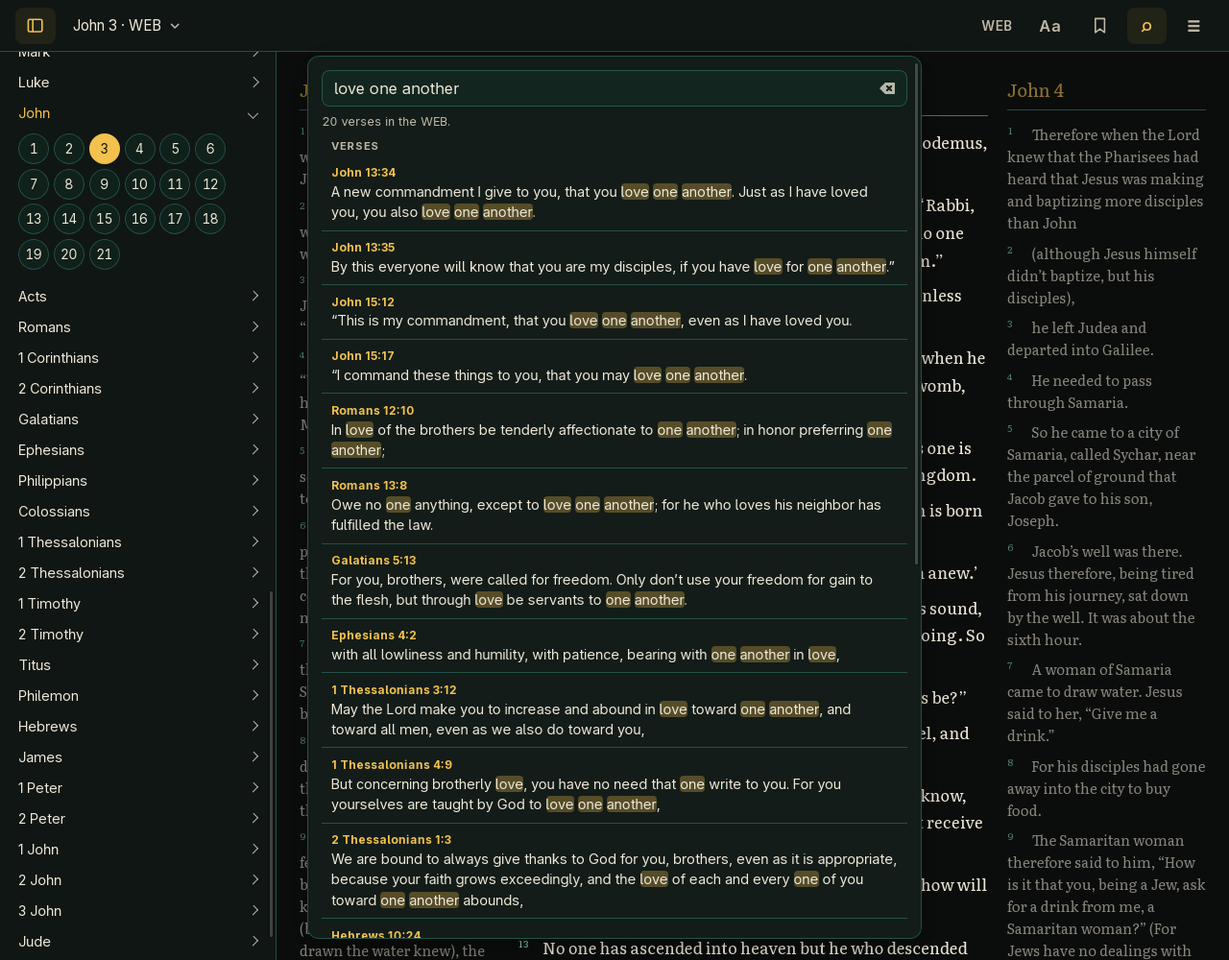
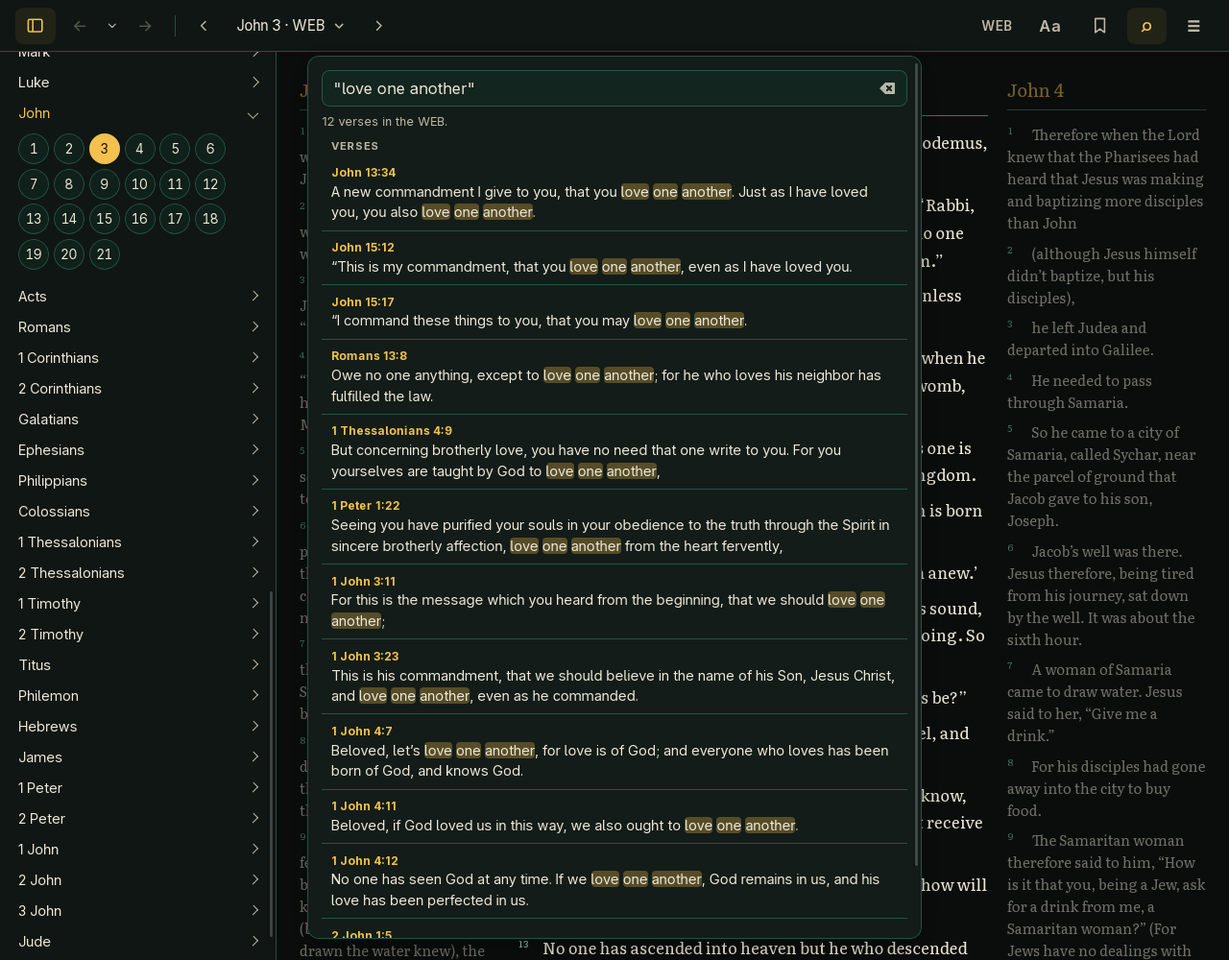
chore(release): v2.22.0
Cargo.toml, Cargo.lock (the gospel_getter entry only, via cargo update
-p gospel_getter --offline) and tauri.conf.json: 2.21.0 -> 2.22.0.
PKGBUILD: _pkgver=2.22.0 and pkgver=2.22.0 (pkgrel stays 1; sha256sums
stays SKIP).

The website shows Version 2.22.0 (hero note and download line). Its FAQ
now says 2.6 through 2.21 update themselves to this one.

README: 2.6.0 through 2.21.0 update themselves to 2.22.0, and the 2.19.0
pre-release does too; 2.5.0 and older install 2.22.0 by hand once.

CHANGELOG: a new 2.22.0 entry for the study-flow batch (#163), with a
one-line intro. Added: Back and Forward in the bar with Recent places
(the last 10, on this computer, in no backup or export), the chapter
arrows, exact-phrase search, and Export notes' Commentary layout with
Print. Changed: the panels grow with Text size, and the neighboring
chapters are fainter and lighten more gently on hover.

Feature copy (#163): the README's Read in context, Search, Notes
(Export notes' Commentary and Print), Comfortable reading (Text size
also enlarges the panels), the bar, and Back and forward (the buttons and
Recent places) bullets, the tour's search paragraph, and Your data
(Recent places on this computer only, not in backups). The site's Read in
context, Find a passage, Write notes and Make it yours items get a short
clause each. The keyboard tables don't mention the bar, so they're
unchanged.

Screenshots: the README's search-results scene now types the phrase
[…]

diff --git a/site/index.html b/site/index.html
@@ -60,7 +60,7 @@
                         <a class="button button-primary" href="#download-windows">Download for Windows</a>
                         <a class="button button-secondary" href="#download-linux">Download for Linux</a>
                     </div>
-                    <p class="hero-note">Version 2.21.0, for 64-bit Windows and Linux computers. The Windows installer isn’t code-signed yet, so Windows will probably warn you before it runs. <a href="#faq-smartscreen">What to expect</a>.</p>
+                    <p class="hero-note">Version 2.22.0, for 64-bit Windows and Linux computers. The Windows installer isn’t code-signed yet, so Windows will probably warn you before it runs. <a href="#faq-smartscreen">What to expect</a>.</p>
                     <p class="touch-only touch-note">Gospel Getter is a desktop app for <strong>Windows and Linux computers</strong>. There’s no phone, tablet or Mac version. To install it, open this page on your computer.</p>
 
                     <ul class="facts">
@@ -90,8 +90,8 @@
                 <div class="feature text-only" id="context">
                     <div class="feature-text">
                         <h3>Read in context</h3>
-                        <p>The chapter you’re reading sits in the middle, with the chapters before and after it faded on either side, as in the picture above. Press <kbd>←</kbd> and <kbd>→</kbd> to turn chapters across the whole Bible, or use the buttons at the end of each chapter. The window’s title says where you are, and the window opens at the size and place you left it.</p>
-                        <p>The reference at the top left, such as “John 3 · KJV”, always says where you are. Click it or press <kbd>G</kbd> to choose a book and chapter, or a random chapter, which opens at its top. On a wide window the books and chapters stay open in a sidebar you can hide. <kbd>Alt</kbd>+<kbd>←</kbd> and <kbd>Alt</kbd>+<kbd>→</kbd> go back and forward through the passages you jumped to, and <kbd>?</kbd> lists every keyboard shortcut.</p>
+                        <p>The chapter you’re reading sits in the middle, with the chapters before and after it faded on either side, as in the picture above. Press <kbd>←</kbd> and <kbd>→</kbd> (or ‹ and › beside the reference) to turn chapters across the whole Bible, or use the buttons at the end of each chapter. The window’s title says where you are, and the window opens at the size and place you left it.</p>
+                        <p>The reference at the top left, such as “John 3 · KJV”, always says where you are. Click it or press <kbd>G</kbd> to choose a book and chapter, or a random chapter, which opens at its top. On a wide window the books and chapters stay open in a sidebar you can hide. Back and Forward at the top (or <kbd>Alt</kbd>+<kbd>←</kbd> and <kbd>Alt</kbd>+<kbd>→</kbd>) go back and forward through the passages you jumped to, ▾ between them lists your recent places, and <kbd>?</kbd> lists every keyboard shortcut.</p>
                         <p>Click a verse to see related passages in a card under it. Click one to read it right there in the card, a whole range at once, and <strong>Go to</strong> opens it. The card floats over the text, so nothing moves. Each chapter’s Cross references, at its end, link straight to their passages. The cross-references come from OpenBible.info.</p>
                         <p>In the KJV, words the translators supplied are in italics, as in printed KJVs, and its margin notes are lettered footnotes. The BSB’s translators’ footnotes are lettered where the BSB places them. Select a verse to read its notes, or open a chapter’s Footnotes at its end.</p>
                     </div>
@@ -101,7 +101,7 @@
                     <div class="feature-text">
                         <h3>Find a passage quickly</h3>
                         <p>Press <kbd>/</kbd> or <kbd>Ctrl</kbd>+<kbd>K</kbd> and type a reference such as <code>John 3:16</code>, <code>1 Cor 13</code> or <code>Psalm 23</code> to go straight there. Type a book’s name, like <code>Psalms</code> or <code>1 John</code>, to go straight to its first chapter, with the verses that mention it listed below.</p>
-                        <p>Type anything else to search the words of the text. You get every verse that contains all your words, in Bible order, with the words highlighted. Search works offline too.</p>
+                        <p>Type anything else to search the words of the text. You get every verse that contains all your words, in Bible order, with the words highlighted. Put words in quotes, like <code>"love one another"</code>, to find an exact phrase. Search works offline too.</p>
                         <p>The same box runs commands, such as a theme or Compare, each shown with its key if it has one. Start with <kbd>&gt;</kbd> to list commands only.</p>
                     </div>
                     <figure class="shot">
@@ -121,7 +121,7 @@
                             <li><strong>Bookmark passages.</strong> Bookmarked verses get a star, and the Library (the bookmark button at the top) opens any of them again.</li>
                             <li><strong>Highlight verses.</strong> Highlight the verses you’ve selected in yellow, green, blue or pink, like a highlighter pen. They show in whichever translation you’re reading.</li>
                             <li><strong>See all your highlights.</strong> The Highlights list in the Library shows every highlighted passage in Bible order, with its color and a preview. Filter by color, or click one to go back to it.</li>
-                            <li><strong>Write notes.</strong> Select verses and choose <strong>+ Add note</strong> to write about them. A small ✎ marks verses with notes, selecting them shows the notes, and the Notes list in the Library has them all, in Bible order, with a box to search them. Notes take a little Markdown (bold, italics, lists and links), and a reference you type, like “Rom 5:8”, becomes a link that goes there. If the app quits or you close a note with <strong>Keep for later</strong>, what you typed is kept as a draft, on this computer only (backups don’t include drafts). <strong>Copy as Markdown</strong> copies a note with its verses quoted. <strong>Export notes…</strong> in the Library saves them as a Markdown file to read or print, or with <strong>One file per book (a folder)</strong> a file for each book, as notes apps such as Obsidian keep them, with each note’s verses quoted in the translation you’re reading. Choose the books, a chapter range for one book, and when the notes were written, and see how many notes match as you go. In reading mode your notes sit in the margin beside their verses; <strong>Notes in the margin</strong> under <strong>Aa</strong> turns that off.</li>
+                            <li><strong>Write notes.</strong> Select verses and choose <strong>+ Add note</strong> to write about them. A small ✎ marks verses with notes, selecting them shows the notes, and the Notes list in the Library has them all, in Bible order, with a box to search them. Notes take a little Markdown (bold, italics, lists and links), and a reference you type, like “Rom 5:8”, becomes a link that goes there. If the app quits or you close a note with <strong>Keep for later</strong>, what you typed is kept as a draft, on this computer only (backups don’t include drafts). <strong>Copy as Markdown</strong> copies a note with its verses quoted. <strong>Export notes…</strong> in the Library saves them as a Markdown file to read or print, or with <strong>One file per book (a folder)</strong> a file for each book, as notes apps such as Obsidian keep them, with each note’s verses quoted in the translation you’re reading, or as a <strong>Commentary</strong> of your notes by verse number, which you can also print. Choose the books, a chapter range for one book, and when the notes were written, and see how many notes match as you go. In reading mode your notes sit in the margin beside their verses; <strong>Notes in the margin</strong> under <strong>Aa</strong> turns that off.</li>
                             <li><strong>Back up or move your bookmarks.</strong> Export your bookmarks, highlights, notes, reading position and display settings to a file, and import them on another computer. You see what a file contains before anything changes. Bible text isn’t included.</li>
                             <li><strong>Pick up where you left off.</strong> The app reopens at the verse you were reading. Your chapter, translation, bookmarks, highlights, notes and settings are remembered.</li>
                         </ul>
@@ -174,7 +174,7 @@
         <section class="section" id="themes" aria-labelledby="themes-title">
             <div class="wrap">
                 <h2 id="themes-title">Make it yours</h2>
-                <p class="section-intro">Under <strong>Aa</strong>, at the top of the app, choose from nine themes, four text sizes, three line spacings and three widths, set the verses one to a line or let each chapter flow as prose with small verse numbers, or switch on reading mode to hide everything but the text. Scripture is set in Literata, which comes with the app. The System theme follows your computer, Vellum when it’s light and Chi Rho when it’s dark. Printing is always black on white.</p>
+                <p class="section-intro">Under <strong>Aa</strong>, at the top of the app, choose from nine themes, four text sizes (the panels and menus grow with the text), three line spacings and three widths, set the verses one to a line or let each chapter flow as prose with small verse numbers, or switch on reading mode to hide everything but the text. Scripture is set in Literata, which comes with the app. The System theme follows your computer, Vellum when it’s light and Chi Rho when it’s dark. Printing is always black on white.</p>
                 <ul class="themes">
                     <li>
                         <figure>
@@ -239,7 +239,7 @@
         <section class="section section-alt download" id="download" aria-labelledby="download-title">
             <div class="wrap">
                 <h2 id="download-title">Download Gospel Getter</h2>
-                <p class="release-line"><strong>Version 2.21.0.</strong> Free, for 64-bit Windows and Linux. <a href="https://github.com/tossbaws/gospel-getter/releases/latest">What’s new</a></p>
+                <p class="release-line"><strong>Version 2.22.0.</strong> Free, for 64-bit Windows and Linux. <a href="https://github.com/tossbaws/gospel-getter/releases/latest">What’s new</a></p>
                 <p class="touch-only touch-note">You seem to be on a phone or tablet. Gospel Getter runs on <strong>Windows and Linux computers</strong> only, so open this page on your computer to install it.</p>
 
                 <div class="platforms">
@@ -358,7 +358,7 @@
                     <div>
                         <p>It can, and it always asks first. When Gospel Getter starts, it checks whether there’s a new version. If there is, it tells you, and nothing is downloaded or installed until you choose <strong>Update and restart</strong>. You can choose <strong>Later</strong> instead, or turn the check off in <strong>About Gospel Getter</strong>, from the ☰ menu. <strong>Check now</strong> there checks whenever you like, and shows a new version right there, with its release notes and <strong>Update now</strong>. If GitHub doesn’t answer within 20 seconds, it says so.</p>
                         <p>The Windows installers (setup.exe or MSI), the AppImage and the .deb from this page update themselves. If you built Gospel Getter yourself or installed it another way, the app offers a link to the download page instead.</p>
-                        <p>Versions 2.6 through 2.20 update themselves to this one. Versions 2.5 and older can’t update themselves. If you have one of those, download the new version from this page and install it over the old one, just this once.</p>
+                        <p>Versions 2.6 through 2.21 update themselves to this one. Versions 2.5 and older can’t update themselves. If you have one of those, download the new version from this page and install it over the old one, just this once.</p>
                         <p>Checking downloads a small file from GitHub that names the latest version, so GitHub sees your IP address, as with any download. Nothing about your reading or your data is sent.</p>
                         <p>Updating keeps your bookmarks, highlights, notes, reading position and settings. To be safe, or to move to another computer, use <strong>Export data…</strong> in the ☰ menu first. A file exported by version 2.8 or newer needs 2.8 or newer to import, and one exported by 2.12 needs 2.12 or newer: 2.11 and older refuse a file whose theme they don’t know. From 2.12 on, a display setting the app doesn’t know is skipped with a notice, and the rest imports, as 2.12 does with a 2.13 file’s Width, 2.12 and 2.13 do with a 2.14 file’s Layout, and 2.12 to 2.14 do with a 2.15 file’s compare translation.</p>
                     </div>

diff --git a/tools/site/capture_screenshots.py b/tools/site/capture_screenshots.py
@@ -386,11 +386,11 @@ def readme_scenes(theme):
                 await __gg.until(() => !document.getElementById('translation-popover').hidden
                     && document.querySelector('#translation-choices [aria-checked="true"]'), 'the translations');
              """),
-        # Searching the words of the text.
+        # Searching the words of the text, as a phrase in quotes.
         dict(name="search-results", size=(1280, 1000), prefs=look, position=("John", 3, "web"),
              steps="""
                 __gg.click(document.getElementById('search-toggle'));
-                __gg.type(document.getElementById('search-input'), 'love one another');
+                __gg.type(document.getElementById('search-input'), '"love one another"');
                 await __gg.until(() => document.querySelector('#search-results .search-result'), 'results');
                 window.scrollTo(0, 0);
              """),

diff --git a/README.md b/README.md
@@ -10,7 +10,7 @@ search the whole Bible, compare any two translations verse by verse, and
 copy, bookmark or write notes on passages. No account and no network
 needed.
 
-![The reading view in the Chi Rho theme (parchment text on near-black, gold headings): John 3 in the KJV in the centre, with John 2 and John 4 faded on either side. The bar's reference button says "John 3 · KJV", its translation button "KJV" beside Aa, and the sidebar on the left lists the books, with John's chapters open and 3 marked. Supplied words such as "of" are in italics, and small letters after verses 3 and 7 mark their footnotes](screenshots/reading-neighboring-chapters.png)
+![The reading view in the Chi Rho theme (parchment text on near-black, gold headings): John 3 in the KJV in the centre, with John 2 and John 4 faded on either side. In the bar, Back and Forward (dimmed, with nowhere to go yet) with ▾ (Recent places) between them, then the reference button "John 3 · KJV" between the chapter arrows ‹ and ›, and the translation button "KJV" beside Aa; and the sidebar on the left lists the books, with John's chapters open and 3 marked. Supplied words such as "of" are in italics, and small letters after verses 3 and 7 mark their footnotes](screenshots/reading-neighboring-chapters.png)
 
 ## Features
 
@@ -23,13 +23,14 @@ needed.
   through the list. **About Gospel Getter** credits where each text
   comes from (see [Translations](#translations)).
 
-  ![John 3 in the Berean Standard Bible in the Chi Rho theme, with John 2 and John 4 faded on either side. The bar's reference button says "John 3 · BSB" and its translation button "BSB", and small letters after verses 3 and 7 mark the BSB's footnotes](screenshots/bsb.png)
+  ![John 3 in the Berean Standard Bible in the Chi Rho theme, with John 2 and John 4 faded on either side. The bar's reference button, between the chapter arrows ‹ and ›, says "John 3 · BSB" and its translation button "BSB", and small letters after verses 3 and 7 mark the BSB's footnotes](screenshots/bsb.png)
 
-  ![The translation button's popover open in the Chi Rho theme, hanging from the "KJV" button in the top bar, beside Aa, over John 3 in the KJV. Under a Translation heading, three rows: KJV · King James Version · 1611/1769 · public domain, chosen; BSB · Berean Standard Bible · 2023 · public domain; and WEB · World English Bible · public domain. Below them, Compare (C) with BSB or WEB, with WEB chosen as the one to compare with](screenshots/translation-button.png)
+  ![The translation button's popover open in the Chi Rho theme, hanging from the "KJV" button at the right of the top bar, beside Aa, over John 3 in the KJV; at the left of the bar are Back, ▾ and Forward, and the reference between ‹ and ›. Under a Translation heading, three rows: KJV · King James Version · 1611/1769 · public domain, chosen; BSB · Berean Standard Bible · 2023 · public domain; and WEB · World English Bible · public domain. Below them, Compare (C) with BSB or WEB, with WEB chosen as the one to compare with](screenshots/translation-button.png)
 - **Read in context.** The chapter you're reading sits in the middle with
   the previous and next chapters faded on either side, scrolling with it.
-  ← and → turn chapters across the whole Bible, and each chapter ends with
-  buttons for the previous and next chapter.
+  ← and → (or ‹ and › either side of the reference in the bar) turn
+  chapters across the whole Bible, and each chapter ends with buttons for
+  the previous and next chapter.
 - **Go to any chapter.** The reference button at the left of the bar
   (`John 3 · KJV`) always says where you are. It, or `G`, opens the book
   and chapter picker: **Random chapter**, then the Old and New Testament
@@ -40,7 +41,9 @@ needed.
   jumps to references such as `John 3:16`, `jn 3:16-18`, `1 Cor 13` or
   `Psalm 23`, and searches the text for anything else. Results show every
   verse in the current translation containing all your words, in Bible
-  order, with the words highlighted. Type a book's name, like `Psalms` or
+  order, with the words highlighted. Put words in quotes, like
+  `"love one another"`, to find them together in that order, with or
+  without other words. Type a book's name, like `Psalms` or
   `1 John`, to go straight to its first chapter, with the verses that
   mention it listed below. The same box runs commands: as you type, it
   lists **Go to**, **Commands** and **Verses**, in that order, and each
@@ -89,9 +92,11 @@ needed.
   notes…** (in the Library's Notes tab) saves them as a Markdown file, or
   with **One file per book (a folder)** a file for each book, as notes
   apps such as Obsidian keep them, with each note's verses quoted in the
-  translation you're reading. Pick which books to include, a chapter range
-  when you pick one book, and when the notes were written (All time, Last
-  7 days, Last 30 days, This year or Custom dates); a live count shows
+  translation you're reading, or as a **Commentary** (your notes by verse
+  number, without the Bible text), which **Print…** also prints. Pick
+  which books to include, a chapter range when you pick one book, and
+  when the notes were written (All time, Last 7 days, Last 30 days, This
+  year or Custom dates); a live count shows
   how many notes match. In the KJV, translator-supplied words appear in
   italics, as in printed KJVs, and the margin notes are left out.
 
@@ -122,8 +127,9 @@ needed.
   app. Nine themes: Chi Rho (the default), Vellum, System (which follows
   your computer's light or dark setting, as Vellum or Chi Rho), Vaporwave,
   Classic Dark, Classic Light, Matrix, Beast Slayer and Hot Pink. Four text
-  sizes (also Ctrl+= and Ctrl+-, and Ctrl+0 for Medium), three line
-  spacings, three widths for the text (Narrow, Normal and Wide), a
+  sizes (also Ctrl+= and Ctrl+-, and Ctrl+0 for Medium), which also
+  enlarge the card, menus, Library, picker, search and margin notes, three
+  line spacings, three widths for the text (Narrow, Normal and Wide), a
   layout, and a distraction-free reading mode, all under **Aa**. Printing
   is always black on white.
 - **Notes in the margin.** In reading mode, your notes on the chapter sit
@@ -142,16 +148,19 @@ needed.
 
   ![John 3 in the KJV in the Flowing layout, in the Chi Rho theme: the verses run on as paragraphs, each starting after a small raised number, with John 2 and John 4 faded on either side, also flowing. Supplied words such as "of" are in italics, and small letters after verses 3 and 7 mark their footnotes. The sidebar on the left lists the books, with John's chapters open and 3 marked](screenshots/flowing.png)
 - **Everything in reach, out of the way.** A slim bar at the top holds
-  the reference button (and, on wide windows, the button that hides or
-  shows the sidebar), the translation button (the translations and
-  Compare), **Aa** (text and display), the **Library**
-  (bookmarks, highlights and notes), search and the **☰** menu (export,
-  import, the welcome, the keyboard shortcuts and **About Gospel
-  Getter**). Only one panel or popover opens at a time, and Esc closes it.
-- **Back and forward through passages.** Alt+← and Alt+→ go back and
-  forward through the passages you jumped to (from the picker, search,
-  cross-references or the Library), each where you left it. Turning
-  chapters isn't a jump, and the list lasts until the app closes.
+  Back and Forward, the reference button with ‹ and › (and, on wide
+  windows, the button that hides or shows the sidebar), the translation
+  button (the translations and Compare), **Aa** (text and display), the
+  **Library** (bookmarks, highlights and notes), search and the **☰**
+  menu (export, import, the welcome, the keyboard shortcuts and **About
+  Gospel Getter**). Only one panel or popover opens at a time, and Esc
+  closes it.
+- **Back and forward through passages.** Back and Forward in the bar, or
+  Alt+← and Alt+→, go back and forward through the passages you jumped to
+  (from the picker, search, cross-references or the Library), each where
+  you left it. Turning chapters isn't a jump, and the list lasts until the
+  app closes. ▾, between them, lists **Recent places**: the last 10
+  places you went to, one per chapter, kept after the app closes.
 - **Keys for verses and books.** `j` and `k` select the next or previous
   verse, Shift+j and Shift+k extend the selection, and `[` and `]` go to
   the previous or next book. `?` lists every shortcut (see
@@ -203,11 +212,12 @@ Chi Rho, the default theme, in a window wide enough for the picker's
 sidebar. The other eight themes are under **Aa**.
 
 **Search the text, or jump straight to a reference.** Matching words are
-highlighted, and clicking a result opens and selects that verse. Type a
+highlighted, and clicking a result opens and selects that verse. Words in
+quotes, as here, are found as a phrase, together and in that order. Type a
 book's name, like `Psalms` or `1 John`, to go straight to its first
 chapter, with the verses that mention it listed below.
 
-![The search panel in the Chi Rho theme, listing under a Verses heading the World English Bible verses that contain "love one another", with the words highlighted](screenshots/search-results.png)
+![The search panel in the Chi Rho theme, with "love one another" typed in quotes: "12 verses in the WEB", listed under a Verses heading from John 13:34, each with the phrase highlighted](screenshots/search-results.png)
 
 **Compare two translations verse by verse.** Reading the KJV, compared with
 the WEB: in Romans 14 the WEB numbers three verses the KJV doesn't, and
@@ -323,15 +333,15 @@ without you choosing **Update and restart** or **Update now**.
 latest version, so GitHub sees your IP address, as with any download.
 Nothing about your reading or your data is sent.
 
-**Coming from 2.6.0 through 2.20.0?** Each updates itself to 2.21.0: it
+**Coming from 2.6.0 through 2.21.0?** Each updates itself to 2.22.0: it
 offers the update when it starts (or from **Check now**, in **About
 Gospel Getter** from the ☰ menu in 2.7.0 and later, or in the Updates
 section of Settings in 2.6.0), if it's one of the installs above that
-update themselves. The 2.19.0 pre-release updates itself to 2.21.0 the
+update themselves. The 2.19.0 pre-release updates itself to 2.22.0 the
 same way.
 
 **Coming from 2.5.0 or older?** Those versions can't update themselves.
-Install 2.21.0 by hand once, from the
+Install 2.22.0 by hand once, from the
 [latest release](https://github.com/tossbaws/gospel-getter/releases/latest),
 over your current version; updates after that can come from inside the app.
 Upgrading keeps your data.
@@ -364,6 +374,8 @@ Upgrading keeps your data.
 - Note drafts (what you typed in a note and haven't saved) are kept in the
   app's web storage, on this computer only, for 30 days (the 20 newest).
   Backups and **Export notes…** don't include them.
+- **Recent places** (the bar's ▾ list, the last 10) are kept in the app's
+  web storage, on this computer only. Backups don't include them.
 - The window's size and place are kept in `window-state.json`, beside the
   database, and aren't exported either.
 - Coming from the old browser-based Gospel Getter (the local server on

diff --git a/CHANGELOG.md b/CHANGELOG.md
@@ -4,6 +4,49 @@ What changed in each release of Gospel Getter, newest first. The format
 follows [Keep a Changelog](https://keepachangelog.com/en/1.1.0/), and
 versions follow [Semantic Versioning](https://semver.org/).
 
+## [2.22.0] - 2026-10-30
+
+Back, Forward and Recent places in the bar, chapter arrows, exact-phrase
+search, a commentary of your notes to export or print, and panels that
+grow with Text size. Updating keeps your bookmarks, highlights, notes,
+reading position and settings.
+
+### Added
+- Back and Forward buttons in the top bar, left of the reference. They do
+  what Alt+← and Alt+→ do, and each one's tooltip says where it goes
+  ("Back to Psalms 23"); with nowhere to go, it's dimmed. Between them, ▾
+  opens Recent places: the last 10 places you went to on purpose (from
+  the picker, search, a link, the Library or Back and Forward), newest
+  first, one per chapter, each with its translation, and the one you're
+  on marked "you are here". Choosing one opens it in the translation you
+  read it in. Turning chapters adds nothing. Unlike Back and Forward,
+  the list lasts after the app closes. It's kept on this computer only,
+  and neither backups nor exports include it. In a narrow window Forward
+  is the first item in that menu.
+- ‹ and › either side of the reference turn to the previous and next
+  chapter, as ← and → do, and their tooltips name it ("Next chapter: John
+  4"). At Genesis 1 and Revelation 22 the one with nowhere to go is
+  dimmed. The bar's new buttons aren't shown in reading mode.
+- Exact-phrase search: put words in quotes, such as "love one another",
+  to find verses with those words together, in that order. Straight or
+  curly quotes both work, and a phrase mixes with other words: `"love one
+  another" commandment` finds verses with the phrase and the word. A
+  quote that isn't closed counts as ordinary words, and `"John 3:16"` in
+  quotes searches for those words instead of going to the verse.
+- Export notes has a Commentary layout, "Commentary (notes by verse
+  number)": your notes under book and chapter headings, each after its
+  verse numbers ("3:16–18"), in Bible order, without the Bible text. It
+  takes the same choices of books, chapters and dates, and works with one
+  file per book. With it chosen, Print… prints the commentary.
+
+### Changed
+- The selection card, the menus and popovers, the Library, the picker,
+  search and the notes in the margin now grow with Text size, a little
+  less than the text does. At Medium they're as before, and the top bar
+  keeps its size.
+- The neighboring chapters on either side are a little fainter, and
+  lighten more gently on hover.
+
 ## [2.21.0] - 2026-10-28
 
 Search your notes, drafts kept while you write, Markdown and linked
